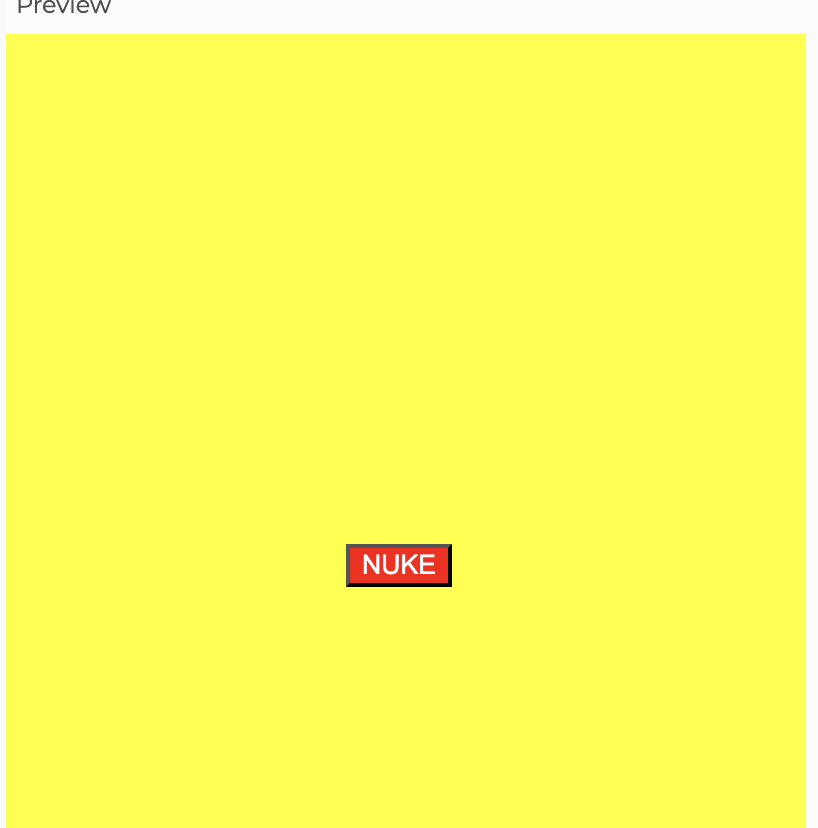
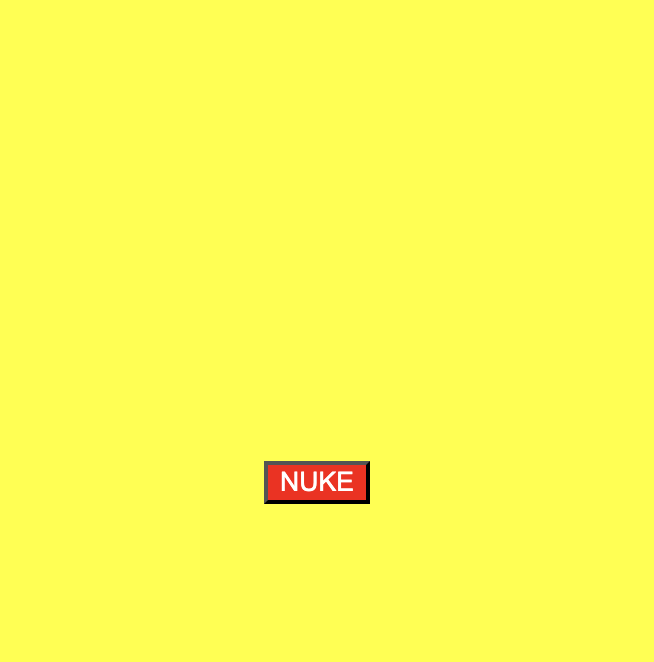
123

Changed region(s): [[0.0, 0.0, 1.0, 1.0], [0.3976, 0.6344, 0.581, 0.7855]]

diff --git a/journal-pages/week-03.md b/journal-pages/week-03.md
@@ -6,76 +6,98 @@ layout: default
 
 [← Back to Home](../index.md)
 
-# In Class Experiment 
-During class in week three we did Live Data collection, we started out by watching a video about a man on the train using a pen and paper to collect the data of the movement of the train. I think this video was really memorable to me as I never really thought about collecting data in this way, this was really different as instead of actively asking questions or actively listening or thinking, he passively just waited and let the movement of the train move him and collected data via that. After watching that video we then begun the actual in class experiments, we first started by going into our terminals and playing around. On my MacBook I first started out by playing around with some commands such as pwd – which got the computer to show which directory im current in, ls – asking the computer whats in the directory, cd ______ - which if asking for a folder, would take you into a folder,  and finally cd .. – which would go back. This was pretty could as I’ve seen the terminal a lot in my life whether which downloading Minecraft mods, or playing video games, but I’ve never actually known what it did, and being able to expirment with it was really cool. 
+# In Class Discussions
+Like I assumed last week, week fours class started with a discussion on AI, we talked about ideas such as how AI might change the future of design, the ethics around it, as well as the sovereignty of AI. Personally I know that AI is going to be a big part of design in the future – as it already is a heavy part of it now, even the university of Auckland has begun teaching the use of AI in our core second year courses. I think that designers should not stay away from AI as a whole, as in our first year we were taught that designers need to keep an open mind and be open to adaptability, and if we were to keep a closed mindset towards AI it just wouldn’t be helpful to us as Designers. I think that AI is alright to use as long as it does not replace your entire Design Process, I think that AI is very helpful to streamline some repetitive processes when designing. Personally I do use Ai features that come with apps such as Figma, photoshop, and premier pro as I find them very useful to help me do things in a matter of seconds that would normally take me a few hours, some notable examples would be the the rotoscoping in Premier Pro, as well as the ai fill in photoshop – these allowing me to streamline simple but long processes to a matter of seconds.
 
-## Curl
-After that we learnt about curl which is an open source command line tool which can be used for transferring data over the internet. We first started by copy and pasting 
+## Ollama
+After our talk about AI we then moved on to experimenting with Ollama it was an AI chatbot that was entirely in our terminals. I think this was really cool as it was very similar to ChatGPT and other Ai chatbots I’ve used before, but it was also different as you could see how it was thinking and the way it came upon ideas. Although it did feel slower than other AI chatbots you’d find on the internet I did find it cool how it was just on my terminal once again, and it did seem that the quality was very poor compared to some of the free models you’d find online. I asked it to generate me some code for a landscape in p5, and although it did give me some code, the outcome of the image just wasn’t good.
 
--	curl ascii.live/forrest
+![Ollama Landscape](../assets/week-04/4-1jpeg)
 
-into our command terminal which showcased a running man in our terminal. It was pretty cool to see this play out in our terminal as it was something that we can do offline. 
+ Since a lot of the class had problems with getting their Ollama downloaded we quickly moved to the second part of the in class experiment. 
 
-![IPhoto](../assets/week-03/3-1.png)
+## NotebookLM
+After Ollama we then went to an website called NotebookLM, we started out by adding some sources to the website, some of the things I included was my making journal, a previous website that I’d worked on, as well as an article from high school that was slightly related to the website. Then we were told to add a new text file called context.md and in it add three sentences
 
-After that we then tried using 
--	curl wttr.in
+-	The experiment you found most interesting and why
+-	A theme or idea you keep coming back to
+-	Something you're curious about but haven't had a chance to explore yet.
 
-This actually didn’t work in class for some reason, but after the class I went home and on my home Wi-Fi it did work, and it generated a full weather report for the next three days, which again was pretty cool to see as it gave all the information needed in a well formatted way without too much clutter. Also it was pretty cool once again that it was all just taken from my computer and curl. We also then tried to filter the data which was done with the following command lines. 
+I tried this but some reasons it wouldn’t accept my file so I just decided to entire the information manually and was told that it would work like that too. So I entered the following information 
+-	I found most interesting was the second one, creating a data visualisation on p5.
+-	A theme I keep coming back to the use of technology within my designs, and my overreliance of it sometimes
+-	Something that I’m curious about is motion design
 
--	curl "wttr.in/Auckland?format=3"
--	curl "wttr.in/Auckland?format=4"
--	curl "wttr.in/Auckland?format=%l:+%t+%c"
--	curl "wttr.in/Auckland?format=%l:+%t+%h+%w"
+After that we were tasked to ask it the following questions
 
-The following codes and the meaning
+-	"If my sources were documentation for a design project, what would the final outcome be?"
+-	"What do my sources suggest I care about?"
+-	"Identify a provocation hidden in my sources"
+-	"What would someone who disagrees with the ideas in my sources argue?"
+-	"Which of my sources are you drawing on for that, and which are you ignoring?"
 
--	%l – Location
--	%t – Temperature
--	%c – Weather Condition (Displayed as an emoji)
--	%h – Humidity 
--	%w – Wind 
--	%s – Sunrise
--	%u – UV Index – 1-12 
+And it came up with the following responses:
+-	My Final Outcome would be an interactive data-driven digital platform – most likely a website or app. 
+-	Based on the sources it would suggest that I cared about things such as technical design innovation, and dedicated community service. As well it suggested that I had care for UX/UI design, technical skill mastery, and creative experimentation
+-	 One hidden provocation that it found was the tenison between the technical automation of design, and the deeply human nature of humanitarian service. 
+-	Something that it said it would argue is institutionalization of altruism and the technical reduction of human connection. Making points such as Technical Reductionism Vs Human Integrity, and the Ethics of using Service as a “Design Playground”
+-	It seemed to focus a lot more on my sources for my service awards, Charity website pages, and making journal, and it ignored other names on the service awards lists, as well as bank details to donate on the charity website.
 
-![IPhoto](../assets/week-03/3-2.png)
+Afterwards we were also tasked to generate an audio overview and give it a listen to. The thing that I found the most surprising element was how the overview managed to bridged the gap between my past in high school getting my service colours and my current identity as a design student at university. Hearing the hosts connect the "outstanding contributions" mentioned in the school news – such as volunteering at local hospitals or foodbank, to my technical goals in DES240 was a perspective I hadn't fully articulated myself. It highlighted that my interest in UX/UI design isn't just a career path, but a continuation of the integrity and passion noted by Sir David Moxon in the Solomon Islands Medical Mission website.
+### What it Got Wrong
+The overview occasionally struggled with the noting the difference between the $88,000 raised by the school community and my specific making journal. It seemed to imply that the money my high school helped raised were a direct result of the data representation experiments I’m currently doing at uni, even though the sources I added suggest the fundraising is an established annual effort by my school community. Additionally, while it correctly identified my "growing passion for motion design," it overestimated how much of that has been integrated into the SIMMNZ project so far, given that I have only just recently started learning about it and how to use After Affects.
 
-This was pretty interesting, I think that It was pretty cool how the simple codes could also be added together, again it was pretty cool to see that all of this was achievable through just the command terminal in my computer. After that we then used curl to look up words via the dictionary using the command line.
+# Individual Experiment 
+For this weeks individual experiment, we were tasked with getting a csv database from catalogue.data.govt.nz and then enter it into an AI chatbot, so I got a database about all the schools in New Zealand and put it into ChatGPT. I asked ChatGPT questions such as 
 
--	curl https://api.dictionaryapi.dev/api/v2/entries/en/design
+-	What could you tell me about this data 
+-	Is there anything that is missing from this data that could be useful for making inferences and that could be helpful overall
+-	Do you know when this data was taken
+-	Would you say there is any bias to consider in this dataset
+-	Can you visualise this data for me via a graph
+The AI told me about how the dataset contains a data on every school in New Zealand, with a row of 2,578, and 50 different coloumns, with information such as 
+-	School Ids
+-	School Name
+-	Status
+-	Location Data
+-	Type
+-	Structure
+-	Roll 
+-	Authority 
+-	And more
+The AI gave me a clear indication on what I was able to find with this data, but it also indicated how there was some crucial data that would be important for answering questions and making inferences. Some of this data included things such
+-	Student outcomes (NCEA, literacy, numeracy, ect) 
+-	Teaching Staff Data 
+-	Funding
+-	Trends
+ChatGPT told me that thing data would be very useful as with the current data you can describe the schools in New Zealand, but you wouldn’t be able to judge their performances, and if any schools needed extra help compared to other schools. As well ChatGPT brought up an interesting point that the dataset is only a snapshot of trends, and not a full history, so that made me wonder when this dataset was actually taken. I asked ChatGPT about it and it indicated that based on what it could tell it was recent and that dataset was actually created as I downloaded it, which makes me believe that either the catalogue data website was updated live, or the dataset was taken very recently such early 2026, as it indicated there were schools that been opened starting 2026.  Afterwards I asked it if there were any bias to consider within this dataset, and it gave me some interesting points. 
 
-This generated a large box of text, which was kind of hard to understand, but it seemed to generate everything from the definition, to the phonetics, and synonyms of the word. The reason why it generated such a large box of text that was slightly hard to read was because to gave us the whole Json format, which is normally used on the web, so when transferred on our terminals it looked a bit weird. 
+I think the first one was that the data was purely administrative, and there was no data from lived in experience from the schools, so even though a school may look good on paper, but if you were to ask students the school may be performing poorly, which is another reason why filling in the gaps in data such as the students’ academic results would be useful. Another thing that it brought up again was the fact that the data was only a snapshot and not a full history, which would hide things such as if the school was growing or shrinking in roll, or if there was temporary issues with the school it would be frozen in that point of time. 
+Afterwards I asked ChatGPT to generate me a photo of the data for me to evaluate it first gave me this photo:
 
-## Weather Visualisation 
-After experimenting with curl in the terminal, we then moved onto visualising the weather, this was done in p5 once again, alongside an API – a structured way for programs to communicate and exchange data. The sketch we opened in p5 was using The Open Meteo API which gathered the data from Auckland allowing us to map its properties, such as the humidity of the air changing the background colour of the canvas, the red rectangle in the corner as the wind speed, and the size of the circle as the temperature times by ten. 
+![ChatGPT Photo](../assets/week-04/4-2. png)
 
-ADD MORE LATER MAYBE
+This first image was okay, it seemed really cluttered, and honestly it was quite hard to get information of it, or make any key critical evaluations from the data. So I asked it to remove a few of the more useless graphs, as well to make the data more clear so you could evaluate it and make assumptions and overall just a easier way to read it. This is the result of that next prompt 	
 
-## Live Data Protocols
-For the final bit in class, we got into pairs – or in my case a group of three, and then created a data protocol - which is a set of rules for gathering live data. For our protocol we had to specify three things.
+ ![ChatGPT Photo](../assets/week-04/4-3. png)
 
--	Source: what live data to observe (e.g. sounds in the room, a live transport tracker on your phone)
--	Frequency: how often to check (e.g. every 10 seconds, every minute)
--	Mapping: how to record each observation as a mark, shape, or action
+This second data set visualisation was very nice as it was so much more clearer, only having three different graphs, as well at the top it gave me some nice clear important information such as the median school roll, and total schools. Another key feature in this visualisation is that its more laid out like you would find in academic worksheets or papers, which I find much more useful as someone who studied Statistics in the past. After evaluating this visualisation I then asked ChatGPT to give me a third one but I wanted this one to be even more different from the first two, more specifically a map of New Zealand with all the schools. With the outcome being:
 
-My group came up with the following:
+![ChatGPT Photo](../assets/week-04/4-4.png)
 
--	Source:  How many tables has atleast one person talking
--	Frequency: Every 10 Seconds
--	Mapping: Tally 
+Obviously this map didn’t work from ChatGPT so I attempted two more times refining it with each prompt getting more and more refined, trying to slowly explain to ChatGPT that there was no New Zealand, and the datapoints weren’t actually showing up, but no luck. Eventually I told ChatGPT to completely ignore the previous questions and just to generate a map of New Zealand with all the datapoints, and that actually somehow worked, below is what it generated  
 
-![My group Protocol](../assets/week-03/3-3.jpeg)
+![ChatGPT Photo](../assets/week-04/4-5.png)
 
-Then afterwards we swapped with another group and their protocol had the following:
+With that being generated I decided to move on to something slightly different, I asked ChatGPT to generate me a infographic poster, and the first generation was just the map photo with a title, and that was about it, so I asked it to generate me a graphical poster, with images and cool text. It kept giving me basically the same thing with just the map and then some text, which was good but it really wasn’t what I was after. 
 
--	Source: Sounds on a street while walking 
--	Frequency: Every 10 Seconds
--	Mapping: Lines on a paper
+## Critical Evaluation
+I think AI has immense potential to the future of design, it has the possibilities to streamline design processes, and be used as a tool to make our lives as designers so much easier, without fully replacing us and our work. However I do also believe at its current stage AI is not sustainable enough to work out in the long run, issues with cost to run via hardware, as well as the wastage of water, which goes against our UoA design kawa of kaitiakitanga. As well the ethical concerns are a big factor that we had to consider during our DES200 course. During this weeks work we got to learn and think about about all of this via our experimentation with AI. 
 
-Now unfortunately for us the group we got paired with didn’t follow the instructions properly as we were told to create a protocol for data we can collect in the classroom, so we updated their source to be, sounds we can hear in the classroom. We were sort of confused by the mapping, as it was kind of vague, what we ended up with was, we would draw the lines shape based on how the sound felt/sounded like, eg loud sudden sound, sharp zigzag big line. The way we timed the frequency was by using a stopwatch on someone’s phone that way we could accurately measure the frequency.
+I found that in the case of ChatGPT often when asked for something you would have to either ask multiple times, or refine your prompt a few times before getting a result that you were even slightly happy with. I noticed that for the first generation of the visual generations it defaulted to a graph, which makes sense as the default way I would visualise data like that. Comparing results with friends in the class it seemed that ChatGPT would default to graphs for most people when just asked to visualise this data. It also seemed that I had to correct and had to redirect it in the direction I wanted to, i.e asking for less graphs to make it legible and useable, also during my creation of a map visual graph, it seemed to not be able to work out how to do it until I had it start over from scratch which was really strange and annoying. 
 
-![Other Group Protocol](../assets/week-03/3-4.jpeg)
+One interesting thing I noted when generating the third data visual – the poster, was the fact that he kept thinking that the poster was for an assignment, which is why it kept generating me educational posters – when I was going more so for looks than data. I think the reason why it did this is because of my history with ChatGPT, it knows that I am a uni student and it knows that I often use it to help me with assignments. It also makes me consider any bias it made when it gave me my previous outputs and if they were at all influenced via my history. With that in mind I do wonder what would happen if I were to try this experiment again either on a new account, or not logged in at all. 
 
-After that we compared with the other group, and they followed our protocol to a t and basically did it the way we intended with a tally for how many voices they heard. For them we told them we had to change it and they realised once we begun that theirs probably didn’t work. They did like how captured the data as it was about the same as what they intended for the mapping, which was good as that meant that the rest of their protocol was good and clear.
+I think that the map visual was probably the most interesting to work with as it really opened my eyes to the limits that ChatGPT has, and how often times it wont get it right straight away a lot of times, it really got me to consider if anything else in the past was wrong, and I haven’t been thinking critically enough to consider that it was wrong. I now really think that ChatGPT at most is simple tool, I don’t think it should be relied upon heavily for more complex design operations, such as for graphic design, or even for designing with data.  
 
-# Independent Study 
+I think that if I were to do this independent study without AI it would’ve taken me a lot longer, but I think that the outputs would’ve been more refined with its data representation and looked a look better overall. I think that’s the overall consensus that I’ve come up with Ai, Its very useful at the start of the design process, but lacks depth later on. I think that an example would be the map visual, it took a long time to get AI to generate that image but if I were to do it without AI, I probably wouldn’t have tried to do that map, and instead I probably would’ve used another tool such as NZ Grapher to give me some visualisations of that data. 